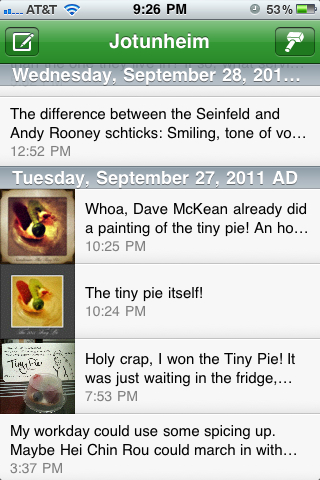
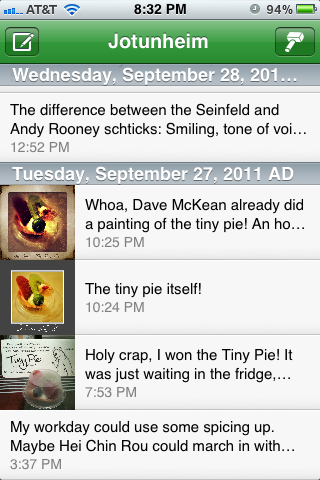
Updated Jots view screenshots. Removed vestigial jotunheim_screenshot_in_frame.png.

diff --git a/jotunheim/index.html b/jotunheim/index.html
@@ -48,8 +48,6 @@
 
 	<div id="bigandsimplestrip">
 		<p>
-<!--			<img src="img/jotunheim_screenshot_in_frame.png" alt="Jotunheim screenshot." class="overlayTrigger" />
--->
 			<div id="framedscreenshot" class="overlayTrigger">			
 				<img src="img/glow_ring.png" class="triggerRing" />
 			</div>
